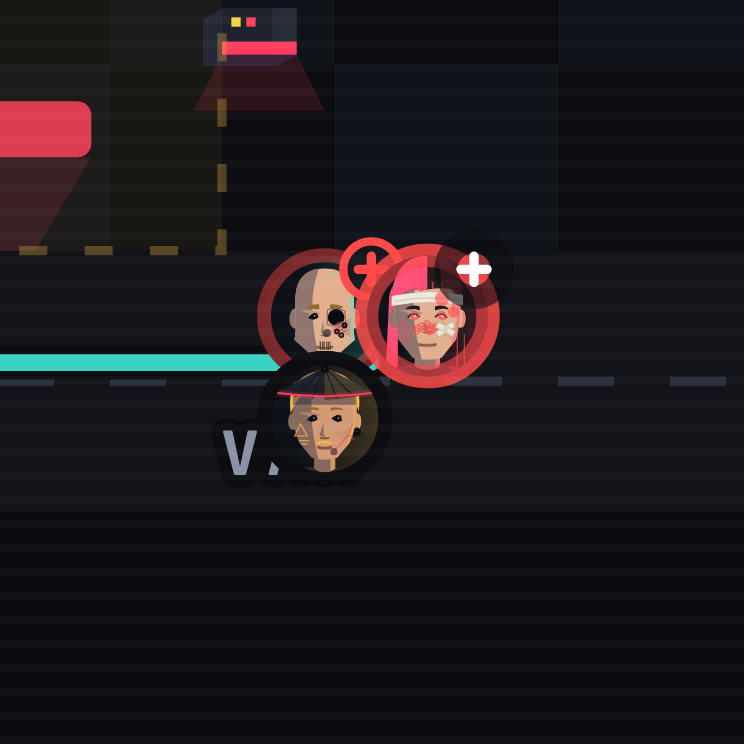
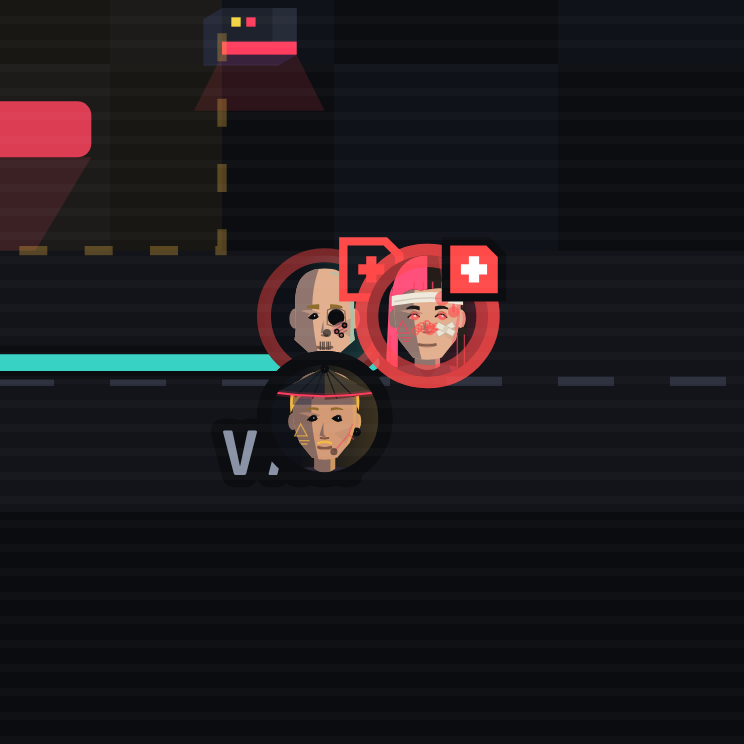
Make the wound badge a cut-corner square to fit the art style

Changed region(s): [[0.5874, 0.3091, 0.6801, 0.4328], [0.4328, 0.3091, 0.5255, 0.4019]]

diff --git a/src/ui/styles.css b/src/ui/styles.css
@@ -1098,10 +1098,10 @@ h2::after { content: ''; flex: 1; height: 1px; background: linear-gradient(90deg
 .sp-token circle { stroke: #0b0d11; stroke-width: 1.5; }
 .sp-token text, .sp-enemy text, .sp-npc text, .sp-cam text { fill: #0b0d11; font-weight: 700; font-size: 6.5px; text-anchor: middle; dominant-baseline: central; }
 .sp-token.is-hit .sp-face__ring { stroke: var(--danger); stroke-opacity: 0.45; }
-.sp-token .sp-status circle { fill: #14181f; stroke: var(--danger); stroke-width: 0.9; }
-.sp-token .sp-status path { fill: none; stroke: var(--danger); stroke-width: 1; stroke-linecap: round; }
-.sp-token .sp-status.is-serious circle { fill: var(--danger); stroke: #0b0d11; }
-.sp-token .sp-status.is-serious path { stroke: #fff; }
+.sp-token .sp-status__box { fill: #14181f; stroke: var(--danger); stroke-width: 0.9; stroke-linejoin: miter; }
+.sp-token .sp-status__cross { fill: none; stroke: var(--danger); stroke-width: 1.1; stroke-linecap: butt; }
+.sp-token .sp-status.is-serious .sp-status__box { fill: var(--danger); stroke: #0b0d11; }
+.sp-token .sp-status.is-serious .sp-status__cross { stroke: #fff; }
 .sp-token.is-down circle { stroke: var(--danger); stroke-width: 2.5; opacity: 0.6; }
 .sp-token.is-cornered circle { stroke: var(--danger); stroke-width: 2; animation: sp-blink 0.5s steps(2) infinite; }
 .sp-enemy circle { fill: var(--danger); stroke: #0b0d11; stroke-width: 1.5; } .sp-enemy--patrol circle { fill: #c9772f; }

diff --git a/src/ui/siteplan.js b/src/ui/siteplan.js
@@ -158,14 +158,14 @@ export function bindSitePlan(svg, { team: inside, overwatch = null, wheels = nul
   const wait = (ms) => later(ms * speed());
   const slot = (i, pt) => [pt[0] + (i % 2) * 11 - 5, pt[1] + Math.floor(i / 2) * 11 - 5];
   const tok = (id) => tokens.querySelector(`[data-op="${CSS.escape(id)}"]`);
-  // A wound is a status badge on the token's top right, clear of the face: a small disc with a cross (never a bright ring:
+  // A wound is a status badge on the token's top right, clear of the face: a small square with a cut corner and a cross (never a bright ring:
   // that read as a power-up). A serious injury also gets the red ring (`is-down`).
   const markHurt = (t, severity) => {
     if (!t) return;
     t.classList.add(severity === 'serious' ? 'is-down' : 'is-hit');
     t.querySelector('.sp-status')?.remove();
     const g = el('g', { class: `sp-status ${severity === 'serious' ? 'is-serious' : ''}`, transform: 'translate(5 -5)' });
-    g.append(el('circle', { r: 3 }), el('path', { d: 'M-1.4 0h2.8M0 -1.4v2.8' }));
+    g.append(el('path', { class: 'sp-status__box', d: 'M-3 -3H1.5L3 -1.5V3H-3Z' }), el('path', { class: 'sp-status__cross', d: 'M-1.4 0h2.8M0 -1.4v2.8' }));
     t.append(g);
   };
   const addToken = (op, at) => {

diff --git a/docs/design/2026-11.md b/docs/design/2026-11.md
@@ -6,7 +6,7 @@ Part of the decision log kept in `DESIGN.md`. Supersede with a new row at the to
 | --- | --- | --- | --- |
 | 2026-11-18 | **Wounds on a portrait are presets: 4 light, 3 serious, 1 critical, chosen by a hash of the runner's id (`art.js woundLook`), drawn in their skin tone; severity still comes only from the game's state.** | The owner: one plaster and one gauze band looked crude, and at token size the old marks read as scribbles. A fixed pick keeps the "condition from state, never random" rule (like scars, a runner's wound never changes between draws). | Picking at random per draw (flickers); one preset per severity (all the hurt look the same). |
 | 2026-11-18 | **The bunk room's plain-look fittings are three cots drawn like the hall's beds, not blank slabs.** | The owner: the room looked odd next to the beds; the slabs were far bigger than a bed and had no pillow or blanket. | Shrinking the slabs only (still unreadable as beds). |
-| 2026-11-18 | **An injury on a job-map token is a status badge on its top right (outlined red cross: light; solid red disc, white cross: serious), not a yellow ring.** Glowing chrome (eyes, ports) stays: it shows neural load (`ART.md`). | Sodium yellow is the game's "your call" colour and the ring read as a bonus. | A bare red ring (no cue for what it is); a plaster on the face (the owner: it looked bad, and it covered the face); removing the chrome glow (it is the load readout). |
+| 2026-11-18 | **An injury on a job-map token is a status badge on its top right (outlined red cross in a cut-corner square: light; solid red square, white cross: serious), not a yellow ring.** Glowing chrome (eyes, ports) stays: it shows neural load (`ART.md`). | Sodium yellow is the game's "your call" colour and the ring read as a bonus. | A bare red ring (no cue for what it is); a plaster on the face (the owner: it looked bad, and it covered the face); removing the chrome glow (it is the load readout). |
 | 2026-11-18 | **The purity pass: `createNewGame` defaults to a fixed seed (1) instead of the clock, and the game passes the seed (`ui/seed.js freshSeed()`: the clock, or `?seed=` in the dev build for repeatable screenshots). `tests/purity.test.js` reads `src` as code (comments and string text blanked) and fails on a clock, `Math.random`, storage or the DOM in `src/core`/`src/data`, storage outside `save/save.js`, a `saveGame` outside `setState`, or a write into `state` in `src/ui`.** Review item 12 was already fixed (checked by a sweep); item 13 fixed here. | CLAUDE.md: core is logic only, randomness through `core/rng.js`; the clock default was the one exception, and it made screenshots unrepeatable. | A required seed (option (a) in the brief): five test calls make a game without one, and a fixed default keeps them and any script deterministic without touching tests. A clock patched inside the screenshot page (would also move the game's own timers). |
 | 2026-11-18 | **Review item 7: no patch-instead-of-replace renderer for now. Measured at 4x (`drafts/NOTE-render-cost-2026-11-18.md`), a tab tap costs 30-60 ms warm except Today (90-130 ms), and a save 6-12 ms; the backup's day and seed already come from a meta key. Next step, if any: profile the Today tab's render.** Also dropped in the speed pass, measured: lazy `say` arguments (about 3%, in the noise) and `Object.keys` in the copy (no change). | The brief asked for numbers before any rewrite; one slow tab points at that screen, not at `render()`. | A patching renderer now (large, for 30-60 ms on most tabs). |
 | 2026-11-18 | **The quick copy moves to `core/copy.js` (`copier(x, kept)`) and engine 1's odds use it too, sharing the battle's spots and each runner's stats (`battle.js BATTLE_KEPT`, guarded by the same freeze test).** Measured note for the speed pass: the board benchmark in the brief compares each version on its own campaigns, and main's 30-week campaigns offer heavier jobs (kidnap, wrong_horse, penthouse at 300 to 450 ms each, even on the code before #194). On the same states the code before #194 gives median 69 / p90 442 ms and this pass 40 / 340; on the old code's own states, 42 / 195 against 35 / 139. | Engine 1's odds cloned each battle whole, with its site's spots. | A copy specialised to the battle's shape (faster, but a second copy to keep in step with the state). |

diff --git a/docs/screenshots/README.md b/docs/screenshots/README.md
@@ -23,7 +23,7 @@ Then add a row to the top of the table below and commit the folder with the chan
 | Date | Version | Commit | What's new on screen | Folder |
 | --- | --- | --- | --- | --- |
 | 2026-11-18 | The bunk room matches the beds | (this change) | Design-session capture (`scripts/capture-bunk-room.mjs`): Old Town's build screen with a bunk room built, in the plain look (`plain-plan.png`, `plain-screen.png`) and the Hall art look (`hall-art-plan.png`, `hall-art-screen.png`). The room's three bunks are drawn like the hall's beds (pillow, blanket, ladder rung) instead of blank slabs. | `2026-11-18-bunk-room/` |
-| 2026-11-18 | A wound is a status badge | (this change) | The standard set. New on screen: a runner with an injury on a job map gets a small badge on the token's top right (a red cross) instead of a bright yellow ring. The standard run has no injury (`14-watch-2.png` reads "Hurt 0"), so the wounded tokens are in their own close-up (`wounds-closeup.png`, from `scripts/preview-wounds.mjs`): a light injury on the left (outlined cross), a serious one on the right (solid, with the ring). `wound-presets.png` (from `scripts/preview-wound-presets.mjs`) shows the new portrait wound presets on three faces: plaster, split brow, black eye, graze; gauze band, cheek pad, split lip; head wrap. | `2026-11-18-wound-plaster/` |
+| 2026-11-18 | A wound is a status badge | (this change) | The standard set. New on screen: a runner with an injury on a job map gets a small cut-corner badge on the token's top right (a red cross) instead of a bright yellow ring. The standard run has no injury (`14-watch-2.png` reads "Hurt 0"), so the wounded tokens are in their own close-up (`wounds-closeup.png`, from `scripts/preview-wounds.mjs`): a light injury on the left (outlined cross in a cut-corner square), a serious one on the right (solid square, with the ring). `wound-presets.png` (from `scripts/preview-wound-presets.mjs`) shows the new portrait wound presets on three faces: plaster, split brow, black eye, graze; gauze band, cheek pad, split lip; head wrap. | `2026-11-18-wound-plaster/` |
 | 2026-11-17 | The visual pass | (this change) | Design-session capture (`scripts/preview-livebattle.mjs --effect`): the Contagion arc leaping to a new host (`01`) and the host's ring flaring as it lands (`02`), the infection tick's flaring ring (`03`), the shield dome (`04`), the jam's broken signal arcs to the callers (`05`), and the way out's "The alarm is up" caption with the red map edge (`06`). Cropped to the map, 2x. | `2026-11-17-visual-pass/` |
 | 2026-11-17 | The medic's aura | (this change) | Design-session capture (`scripts/preview-livebattle.mjs --aura`): the green glow round the medic as the aura starts (`01-glow.png`) and the heal landing with a floating "+" (`02-heal-lands.png`), cropped to the map. The glow grows and flashes twice, an orb crosses to the patient, the pip fills; here the medic heals themself, so nothing crosses. | `2026-11-17-medic-aura` |
 | 2026-11-17 | The way out of a hack | (this change) | Design-session capture (`scripts/capture-way-out.mjs`): a data_pull round after the work is done (`01-way-out-round.png`): the goal line reads "Fighting out · 3 still standing", the alarm's arrivals are coming in, and everyone including the tech is ordered to attack. | `2026-11-17-way-out` |

diff --git a/docs/changelog/2026-11.md b/docs/changelog/2026-11.md
@@ -6,7 +6,7 @@ Part of the changelog indexed in `CHANGELOG.md`. Newest first; add new entries a
 - On the hall build plan (plain look) the bunk room was three big blank grey slabs beside the small cots. It now holds three cots in the beds' own look (pillow, blanket, frame), a little taller than a bed for the bunk above (`data/hallBuild.js bunkFits`). The Hall art look's bunk room (`ui/hallsprites.js`) had a pillow as a tall strip down each bunk; its bunks are now drawn in the bed's proportions, standing against the wall: pillow at the head, blue blanket, a ladder rung at the foot.
 
 ## 2026-11-18 · A wound no longer looks like a power-up
-- On a job map, a runner who took a light injury had a bright sodium-yellow ring, which read as a bonus. It is now a small status badge on the token's top right (`siteplan.js markHurt`): an outlined red cross for a light injury, a solid red disc with a white cross for a serious one, which also keeps its red ring. A first try, a plaster on the face, covered the face and was dropped.
+- On a job map, a runner who took a light injury had a bright sodium-yellow ring, which read as a bonus. It is now a small status badge on the token's top right (`siteplan.js markHurt`): an outlined red cross in a cut-corner square for a light injury, a solid red square with a white cross for a serious one, which also keeps its red ring. A first try, a plaster on the face, covered the face and was dropped.
 - A hurt runner's portrait now wears a proper wound instead of the one crude plaster or gauze band: four light looks (plaster, split brow with butterfly strips, black eye, graze), three serious (gauze band, taped cheek pad, split lip) and a critical head wrap, each in the runner's own skin tone and fixed by their id, so the same person always shows the same wound (`ui/art.js WOUND_LOOKS`, `woundLook`; the sheet is `wound-presets.png`).
 
 ## 2026-11-18 · The core never reads the clock (purity pass)
